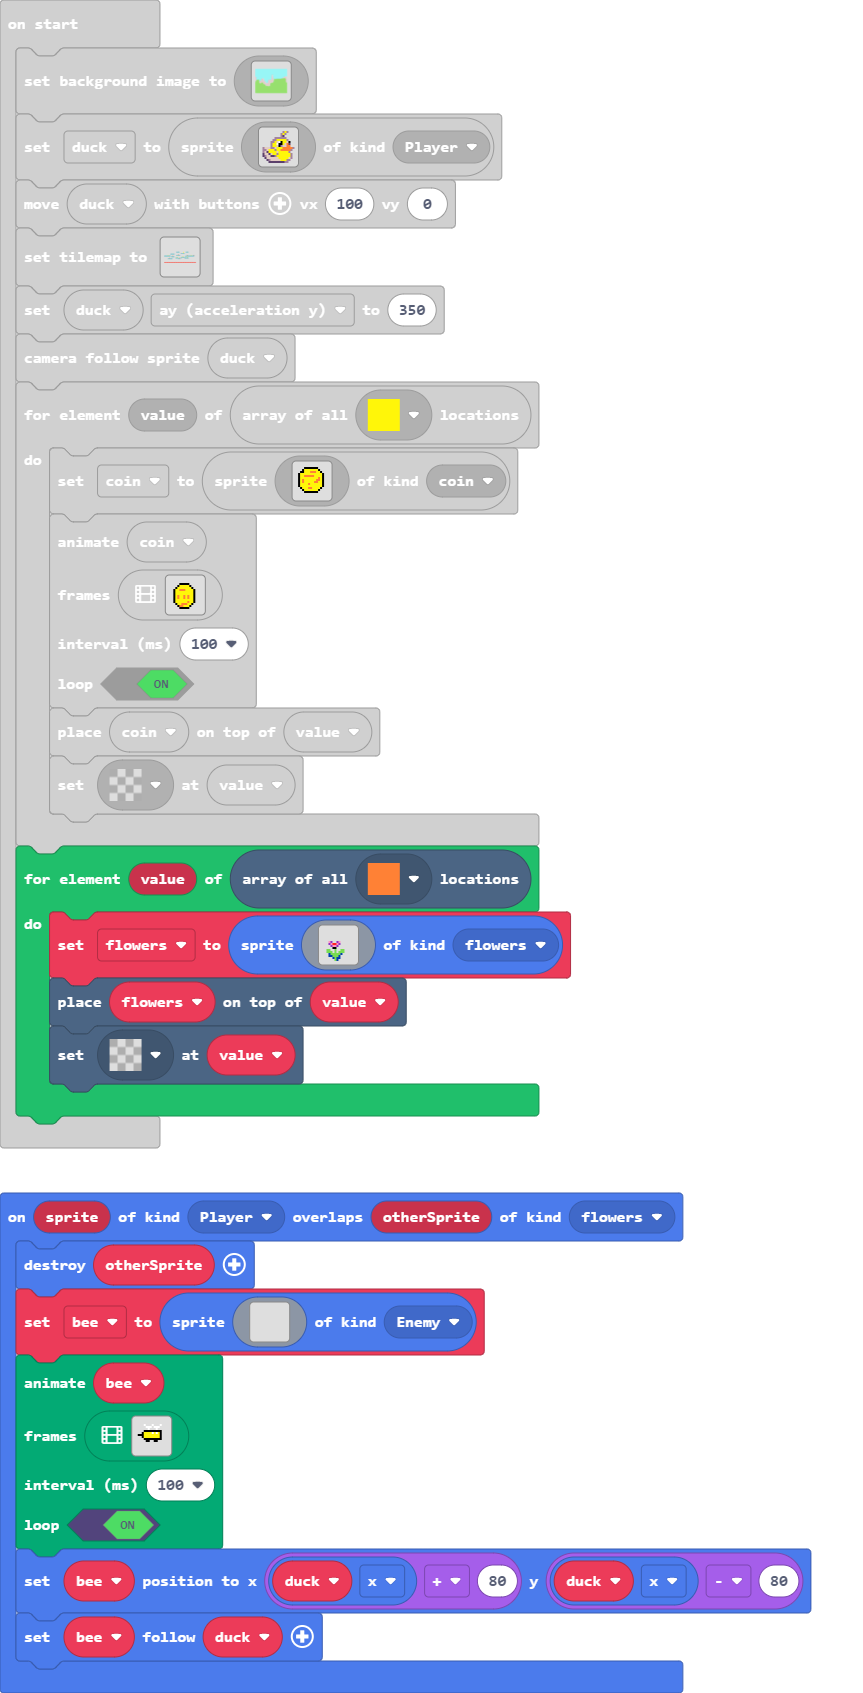
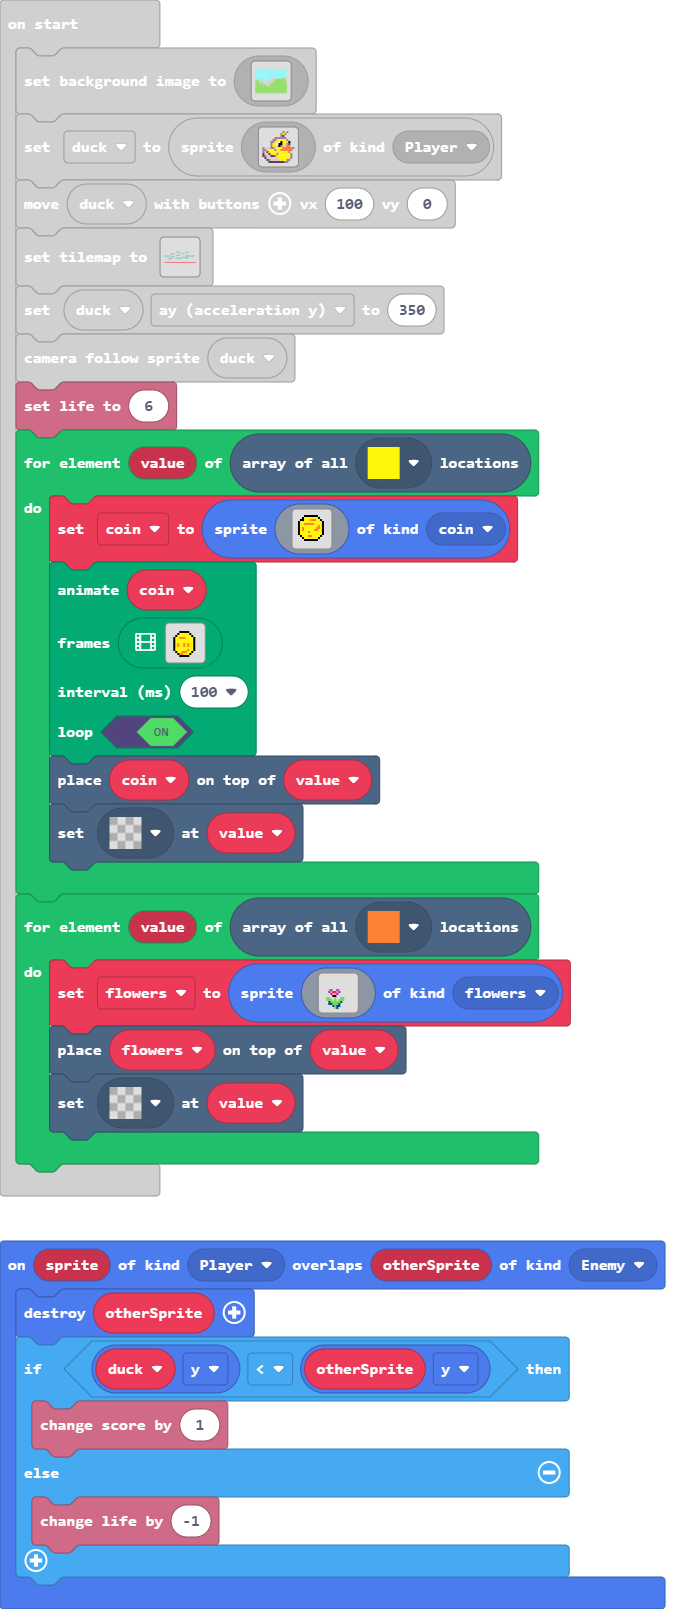
Update main.blocks, main.ts

diff --git a/main.ts b/main.ts
@@ -81,6 +81,14 @@ sprites.onOverlap(SpriteKind.Player, SpriteKind.flowers, function (sprite, other
 scene.onOverlapTile(SpriteKind.Player, assets.tile`tile0`, function (sprite, location) {
     game.over(true, effects.confetti)
 })
+sprites.onOverlap(SpriteKind.Player, SpriteKind.Enemy, function (sprite, otherSprite) {
+    otherSprite.destroy()
+    if (duck.y < otherSprite.y) {
+        info.changeScoreBy(1)
+    } else {
+        info.changeLifeBy(-1)
+    }
+})
 let bee: Sprite = null
 let flowers: Sprite = null
 let coin: Sprite = null
@@ -229,6 +237,7 @@ controller.moveSprite(duck, 100, 0)
 tiles.setTilemap(tilemap`level1`)
 duck.ay = 350
 scene.cameraFollowSprite(duck)
+info.setLife(6)
 for (let value of tiles.getTilesByType(assets.tile`tile4`)) {
     coin = sprites.create(img`
         . . . . . . . . . . . . . . . . 
